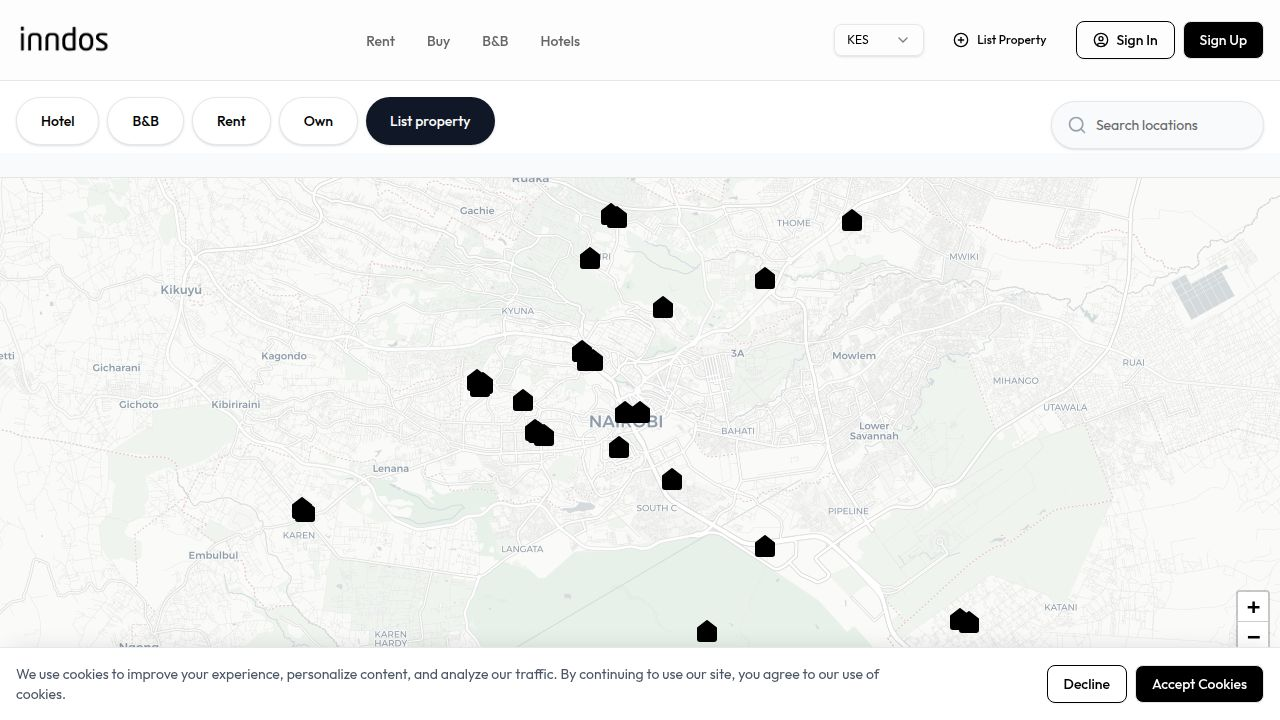
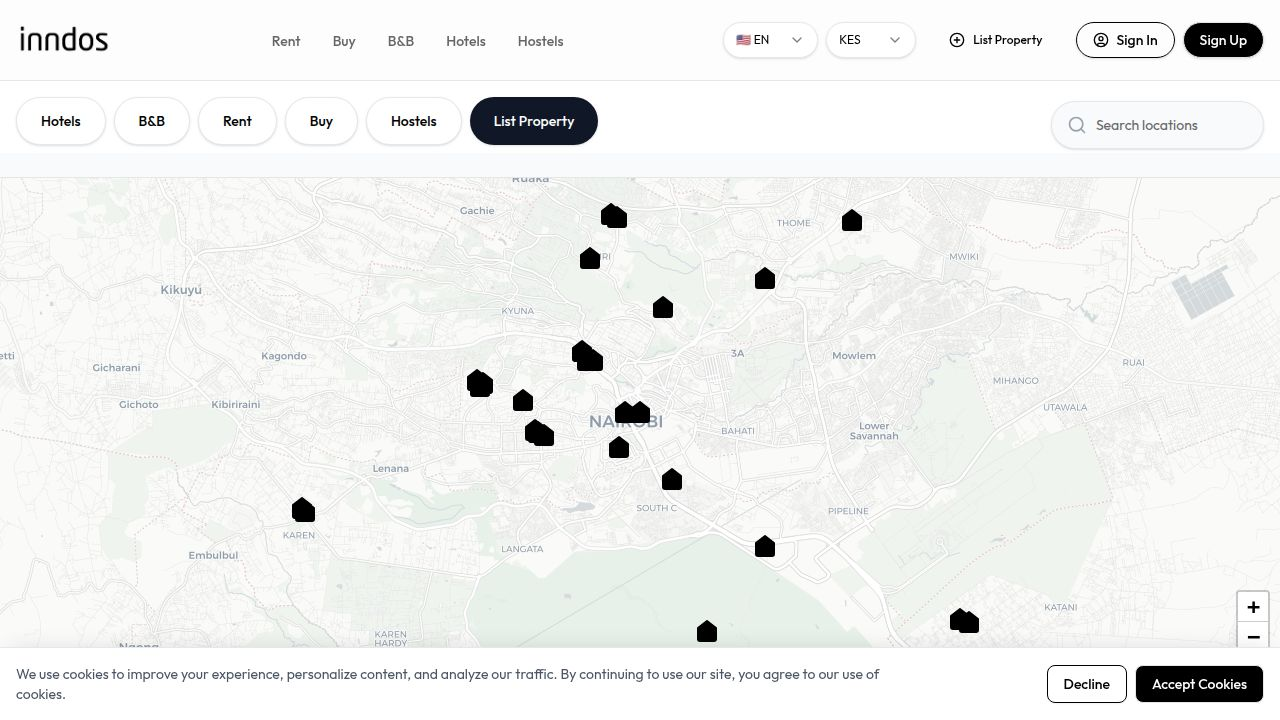
Add navigation and filtering for hostels on the menu
Adds a "Hostels" navigation item to both desktop and mobile menus, including mock hostel data and updating search and filter logic to support the "hostel" property type. Translations for "Hostels" have been added for English, French, and German.

Replit-Commit-Author: Agent
Replit-Commit-Session-Id: 46db9c7c-72d3-488c-bea2-f73e3d7ad21d
Replit-Commit-Checkpoint-Type: full_checkpoint
Replit-Commit-Event-Id: de3678e1-b2d3-4470-9c14-be2777707a60
Replit-Commit-Screenshot-Url: https://storage.googleapis.com/screenshot-production-us-central1/14b22c6c-04e0-4206-89e6-db9a136f81d4/46db9c7c-72d3-488c-bea2-f73e3d7ad21d/ahb7rEq
Replit-Helium-Checkpoint-Created: true

diff --git a/client/src/lib/mockData.ts b/client/src/lib/mockData.ts
@@ -14,7 +14,7 @@ export interface Property {
   id: string;
   ownerId: string; // Link to owner/host
   title: string;
-  type: "rent" | "sale" | "bnb" | "hotel";
+  type: "rent" | "sale" | "bnb" | "hotel" | "hostel";
   price: number;
   address: string;
   specs: {
@@ -254,4 +254,27 @@ const HOTEL_LISTINGS: Property[] = [
   }
 ];
 
-export const PROPERTIES: Property[] = [...RENT_PROPERTIES, ...SALE_PROPERTIES, ...BNB_LISTINGS, ...HOTEL_LISTINGS];
+const HOSTEL_LISTINGS: Property[] = [
+  {
+    id: "ho1", ownerId: "h1", title: "Downtown Backpackers", type: "hostel", price: 1500, address: "Nairobi CBD",
+    specs: { beds: 1, baths: 4, sqft: 150, guests: 1 }, image: "/images/cozy_modern_bedroom_interior.png", isVerified: true, tags: ["Bunk Beds", "Shared Kitchen", "Social Area", "Free WiFi"],
+    location: { lat: -1.283, lng: 36.816 }
+  },
+  {
+    id: "ho2", ownerId: "h2", title: "Oasis Youth Hostel", type: "hostel", price: 2500, address: "Westlands, Nairobi",
+    specs: { beds: 1, baths: 2, sqft: 200, guests: 1 }, image: "/images/modern_happy_family_moving_into_new_home.png", isVerified: true, tags: ["Private Pods", "Bar", "Pool", "Events"],
+    location: { lat: -1.267, lng: 36.805 }
+  },
+  {
+    id: "ho3", ownerId: "h1", title: "Eco-Friendly Hostel", type: "hostel", price: 1800, address: "Karen, Nairobi",
+    specs: { beds: 1, baths: 6, sqft: 180, guests: 1 }, image: "/images/modern_apartment_exterior.png", isVerified: true, tags: ["Garden", "Organic Breakfast", "Bicycle Rental", "Quiet"],
+    location: { lat: -1.321, lng: 36.705 }
+  },
+  {
+    id: "ho4", ownerId: "h2", title: "Beach Bums Hostel", type: "hostel", price: 3000, address: "Diani, Mombasa",
+    specs: { beds: 1, baths: 8, sqft: 250, guests: 1 }, image: "/images/cozy_modern_bedroom_interior.png", isVerified: true, tags: ["Beachfront", "Surf Lessons", "Hammocks", "Barbecue"],
+    location: { lat: -4.285, lng: 39.590 }
+  }
+];
+
+export const PROPERTIES: Property[] = [...RENT_PROPERTIES, ...SALE_PROPERTIES, ...BNB_LISTINGS, ...HOTEL_LISTINGS, ...HOSTEL_LISTINGS];

diff --git a/client/src/components/layout/Navbar.tsx b/client/src/components/layout/Navbar.tsx
@@ -67,6 +67,11 @@ export function Navbar() {
               {t('nav.hotels')}
             </span>
           </Link>
+          <Link href="/search?type=hostel">
+            <span className={`text-sm font-medium transition-colors hover:text-primary cursor-pointer ${location.includes('hostel') ? 'text-primary' : 'text-muted-foreground'}`}>
+              {t('nav.hostels')}
+            </span>
+          </Link>
           {user && (
             <Link href="/dashboard">
               <span className={`text-sm font-medium transition-colors hover:text-primary cursor-pointer ${location === '/dashboard' ? 'text-primary' : 'text-muted-foreground'}`}>
@@ -175,6 +180,11 @@ export function Navbar() {
           <Link href="/search?type=hotel" onClick={() => setIsMobileMenuOpen(false)}>
             <span className={`block text-sm font-medium transition-colors hover:text-primary cursor-pointer ${location.includes('hotel') ? 'text-primary' : 'text-muted-foreground'}`}>
               {t('nav.hotels')}
+            </span>
+          </Link>
+          <Link href="/search?type=hostel" onClick={() => setIsMobileMenuOpen(false)}>
+            <span className={`block text-sm font-medium transition-colors hover:text-primary cursor-pointer ${location.includes('hostel') ? 'text-primary' : 'text-muted-foreground'}`}>
+              {t('nav.hostels')}
             </span>
           </Link>
           

diff --git a/client/src/pages/Home.tsx b/client/src/pages/Home.tsx
@@ -56,6 +56,9 @@ export default function Home() {
                     <Link href="/search?type=sale" className="flex-shrink-0">
                       <Button variant="outline" className="rounded-full px-4 md:px-6 bg-white border-gray-200 hover:bg-gray-50 hover:text-black shadow-sm font-medium h-9 md:h-12 text-sm">{t('nav.buy')}</Button>
                     </Link>
+                    <Link href="/search?type=hostel" className="flex-shrink-0">
+                      <Button variant="outline" className="rounded-full px-4 md:px-6 bg-white border-gray-200 hover:bg-gray-50 hover:text-black shadow-sm font-medium h-9 md:h-12 text-sm">{t('nav.hostels')}</Button>
+                    </Link>
                     <Link href="/add-listing" className="flex-shrink-0">
                       <Button className="rounded-full px-4 md:px-6 bg-gray-900 text-white hover:bg-gray-800 border-none shadow-sm font-medium h-9 md:h-12 text-sm">{t('nav.list_property')}</Button>
                     </Link>

diff --git a/client/src/pages/PropertyDetails.tsx b/client/src/pages/PropertyDetails.tsx
@@ -135,7 +135,7 @@ export default function PropertyDetails() {
                <div>
                  <div className="flex items-center gap-2 mb-2">
                    <Badge className={property.type === 'rent' ? 'bg-primary' : 'bg-secondary'}>
-                     {property.type === 'rent' ? t('prop.for_rent') : property.type === 'sale' ? t('prop.for_sale') : property.type === 'hotel' ? t('prop.hotel') : t('prop.bnb')}
+                     {property.type === 'rent' ? t('prop.for_rent') : property.type === 'sale' ? t('prop.for_sale') : property.type === 'hotel' ? t('prop.hotel') : property.type === 'hostel' ? t('nav.hostels') : t('prop.bnb')}
                    </Badge>
                    {property.isVerified && (
                      <Badge variant="outline" className="border-green-600 text-green-600 flex items-center gap-1">

diff --git a/client/src/lib/language.tsx b/client/src/lib/language.tsx
@@ -8,6 +8,7 @@ const translations = {
     'nav.buy': 'Buy',
     'nav.bnb': 'B&B',
     'nav.hotels': 'Hotels',
+    'nav.hostels': 'Hostels',
     'nav.dashboard': 'Dashboard',
     'nav.list_property': 'List Property',
     'nav.signout': 'Sign Out',
@@ -92,6 +93,7 @@ const translations = {
     'nav.buy': 'Acheter',
     'nav.bnb': 'Chambres d\'hôtes',
     'nav.hotels': 'Hôtels',
+    'nav.hostels': 'Auberges',
     'nav.dashboard': 'Tableau de bord',
     'nav.list_property': 'Ajouter propriété',
     'nav.signout': 'Déconnexion',
@@ -176,6 +178,7 @@ const translations = {
     'nav.buy': 'Kaufen',
     'nav.bnb': 'B&B',
     'nav.hotels': 'Hotels',
+    'nav.hostels': 'Hostels',
     'nav.dashboard': 'Dashboard',
     'nav.list_property': 'Immobilie einstellen',
     'nav.signout': 'Abmelden',

diff --git a/client/src/pages/Search.tsx b/client/src/pages/Search.tsx
@@ -212,7 +212,7 @@ export default function Search() {
                  {filteredProperties.length} {t('search.properties_found')}
                </h1>
                <p className="text-sm text-muted-foreground">
-                 {t('search.showing_properties')} <strong>{queryType === 'rent' ? t('nav.rent') : queryType === 'sale' ? t('nav.buy') : queryType === 'hotel' ? t('nav.hotels') : t('nav.bnb')}</strong>
+                 {t('search.showing_properties')} <strong>{queryType === 'rent' ? t('nav.rent') : queryType === 'sale' ? t('nav.buy') : queryType === 'hotel' ? t('nav.hotels') : queryType === 'hostel' ? t('nav.hostels') : t('nav.bnb')}</strong>
                  {searchQuery && <span> {t('search.matching')} "<strong>{searchQuery}</strong>"</span>}
                </p>
              </div>
